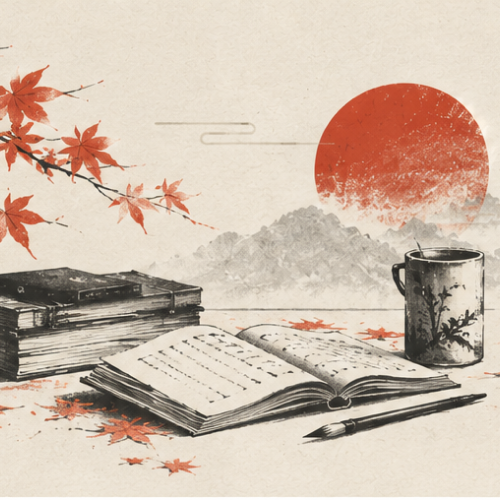
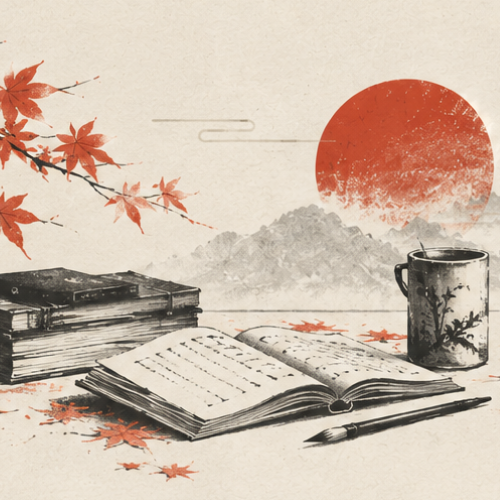
feat: create smooth scroll

diff --git a/app/layout.tsx b/app/layout.tsx
@@ -8,6 +8,7 @@ import Header from "@/components/header"
 import { MobileNavigation } from "@/components/navigation/mobile-navigation"
 import { Analytics } from "@vercel/analytics/next"
 import PaperOverlay from "@/components/paper-overlay"
+import SmoothScroll from "@/components/smooth-scroll"
 
 const geistHeading = Geist({ subsets: ["latin"], variable: "--font-heading" })
 
@@ -42,20 +43,22 @@ export default function RootLayout({
         <title> 墨朱 | Afif Rohul</title>
       </head>
       <body>
-        <Analytics/>
-        <div className="grid min-h-screen lg:grid-cols-[340px_1fr]">
-          <DesktopNavigation />
+        <Analytics />
+        <SmoothScroll>
+          <div className="grid min-h-screen lg:grid-cols-[340px_1fr]">
+            <DesktopNavigation />
 
-          <main className="lg:flex lg:justify-center">
-            <MobileNavigation />
+            <main className="lg:flex lg:justify-center">
+              <MobileNavigation />
 
-            <div className="flex min-h-screen w-full max-w-6xl flex-col pb-4">
-              <Header />
-              <Separator />
-              {children}
-            </div>
-          </main>
-        </div>
+              <div className="flex min-h-screen w-full max-w-6xl flex-col pb-4">
+                <Header />
+                <Separator />
+                {children}
+              </div>
+            </main>
+          </div>
+        </SmoothScroll>
         <PaperOverlay />
       </body>
     </html>

diff --git a/components/smooth-scroll.tsx b/components/smooth-scroll.tsx
@@ -1,0 +1,24 @@
+"use client"
+
+import { ReactLenis } from "lenis/react"
+import "lenis/dist/lenis.css"
+
+export default function SmoothScroll({
+  children,
+}: {
+  children: React.ReactNode
+}) {
+  return (
+    <ReactLenis
+      root
+      options={{
+        lerp: 0.1,
+        duration: 1.2,
+        smoothWheel: true,
+        anchors: true,
+      }}
+    >
+      {children}
+    </ReactLenis>
+  )
+}

diff --git a/app/page.tsx b/app/page.tsx
@@ -26,7 +26,7 @@ export default function Page() {
           </div>
         </div>
         <div className="flex w-full justify-end">
-          <div className="space-y-2 px-2 md:w-1/2 md:p-0">
+          <div className="space-y-2 px-4 md:w-1/2 md:p-0">
             <p className={`text-xs text-accent ${noto_sans_jp.className}`}>
               注 / note
             </p>
